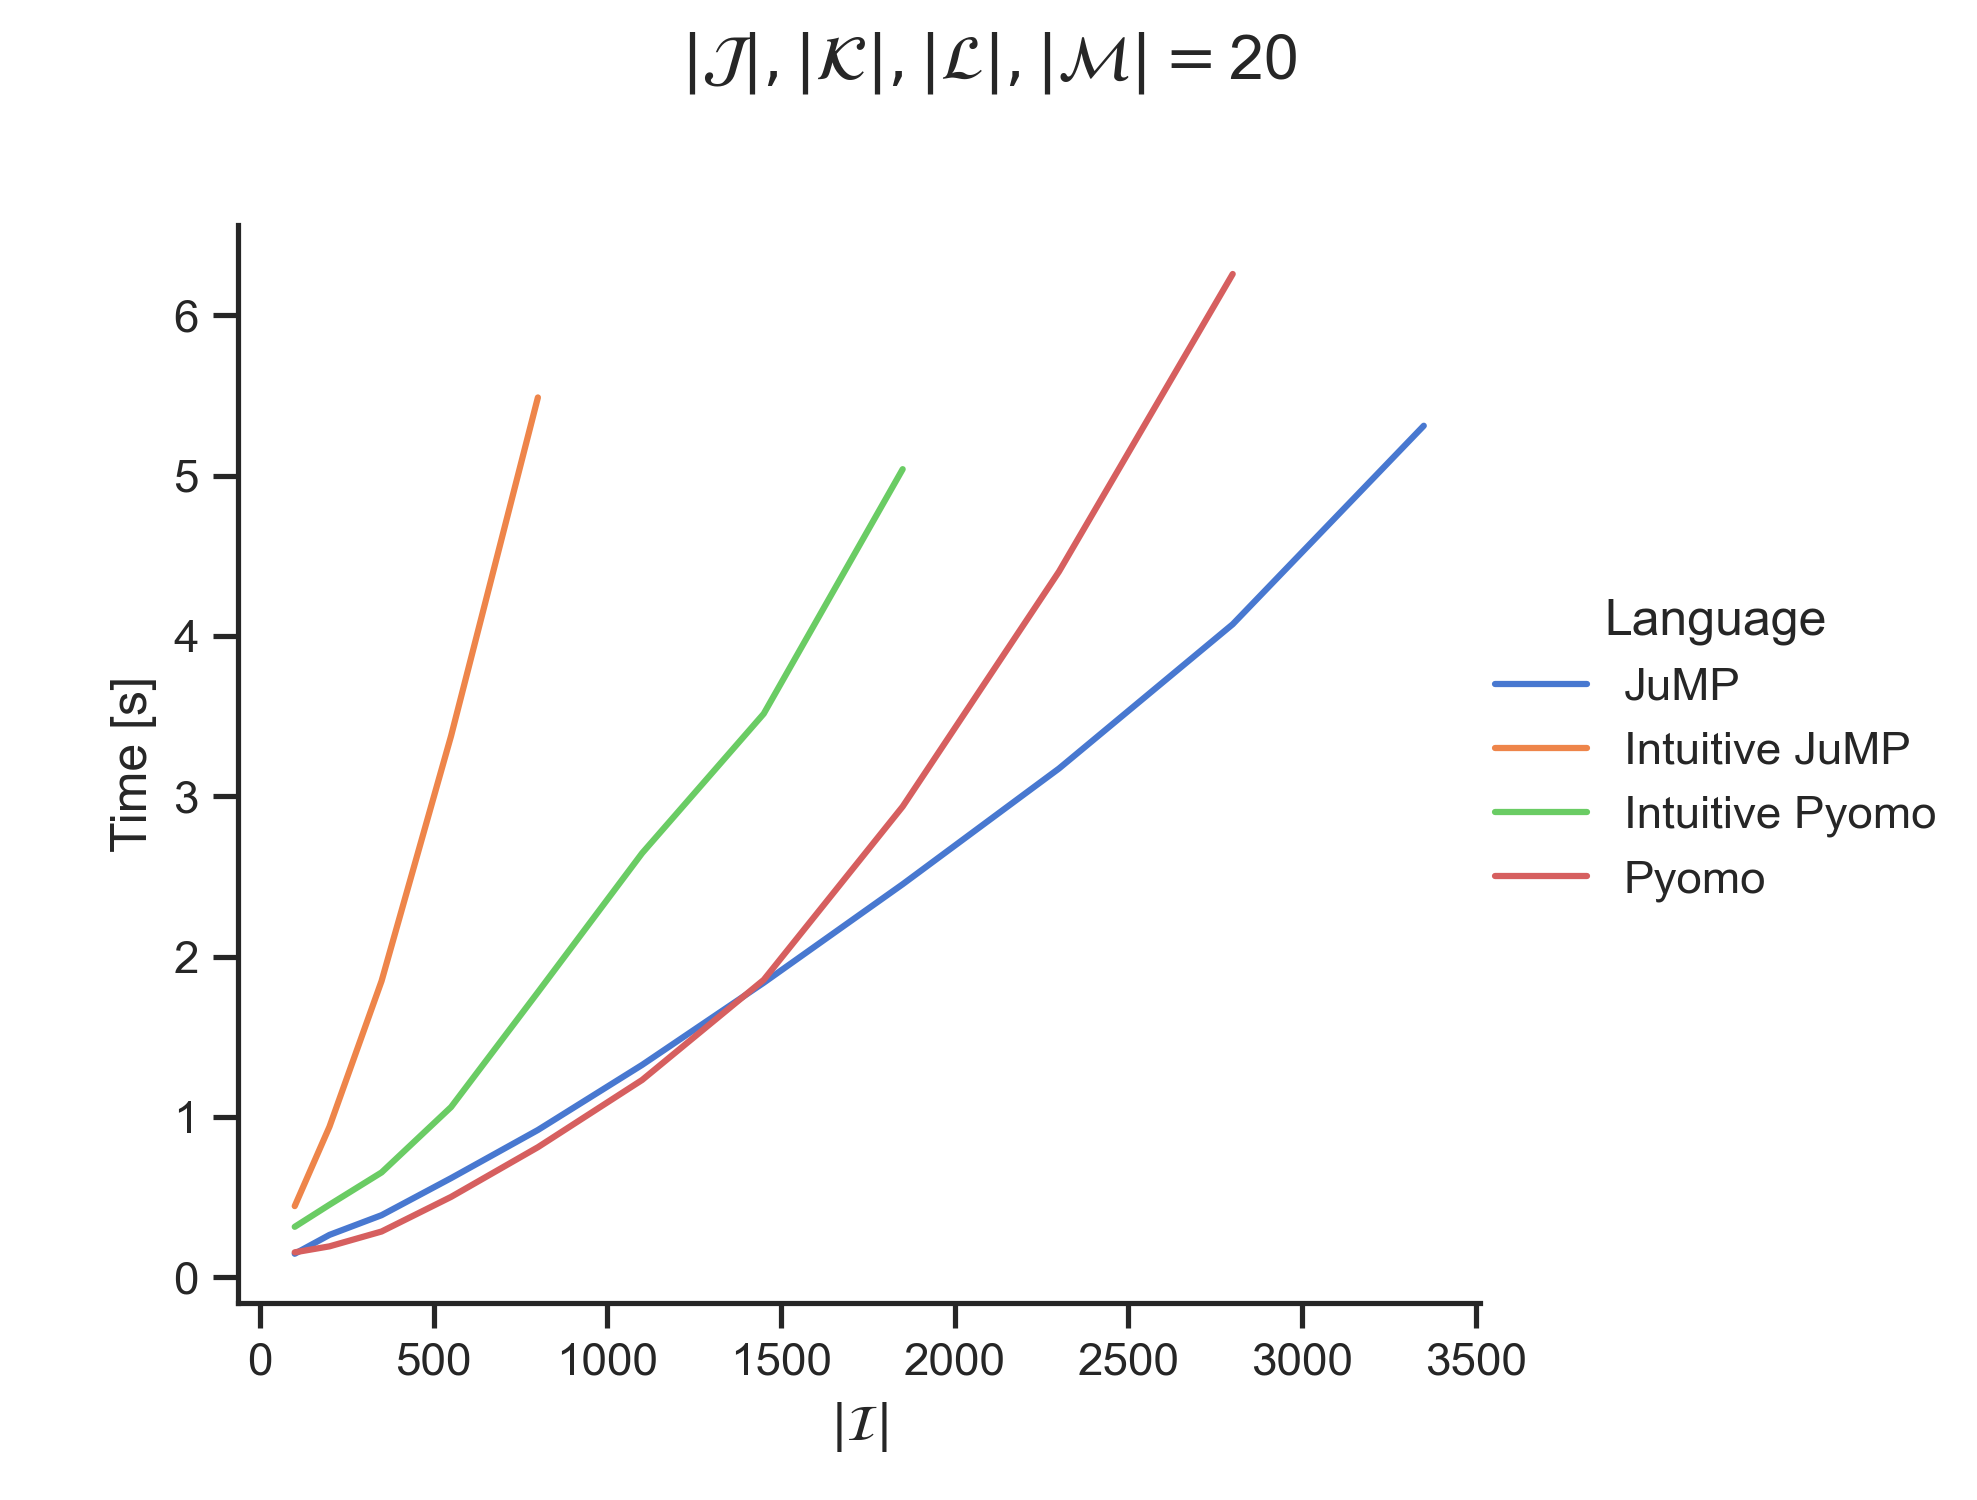
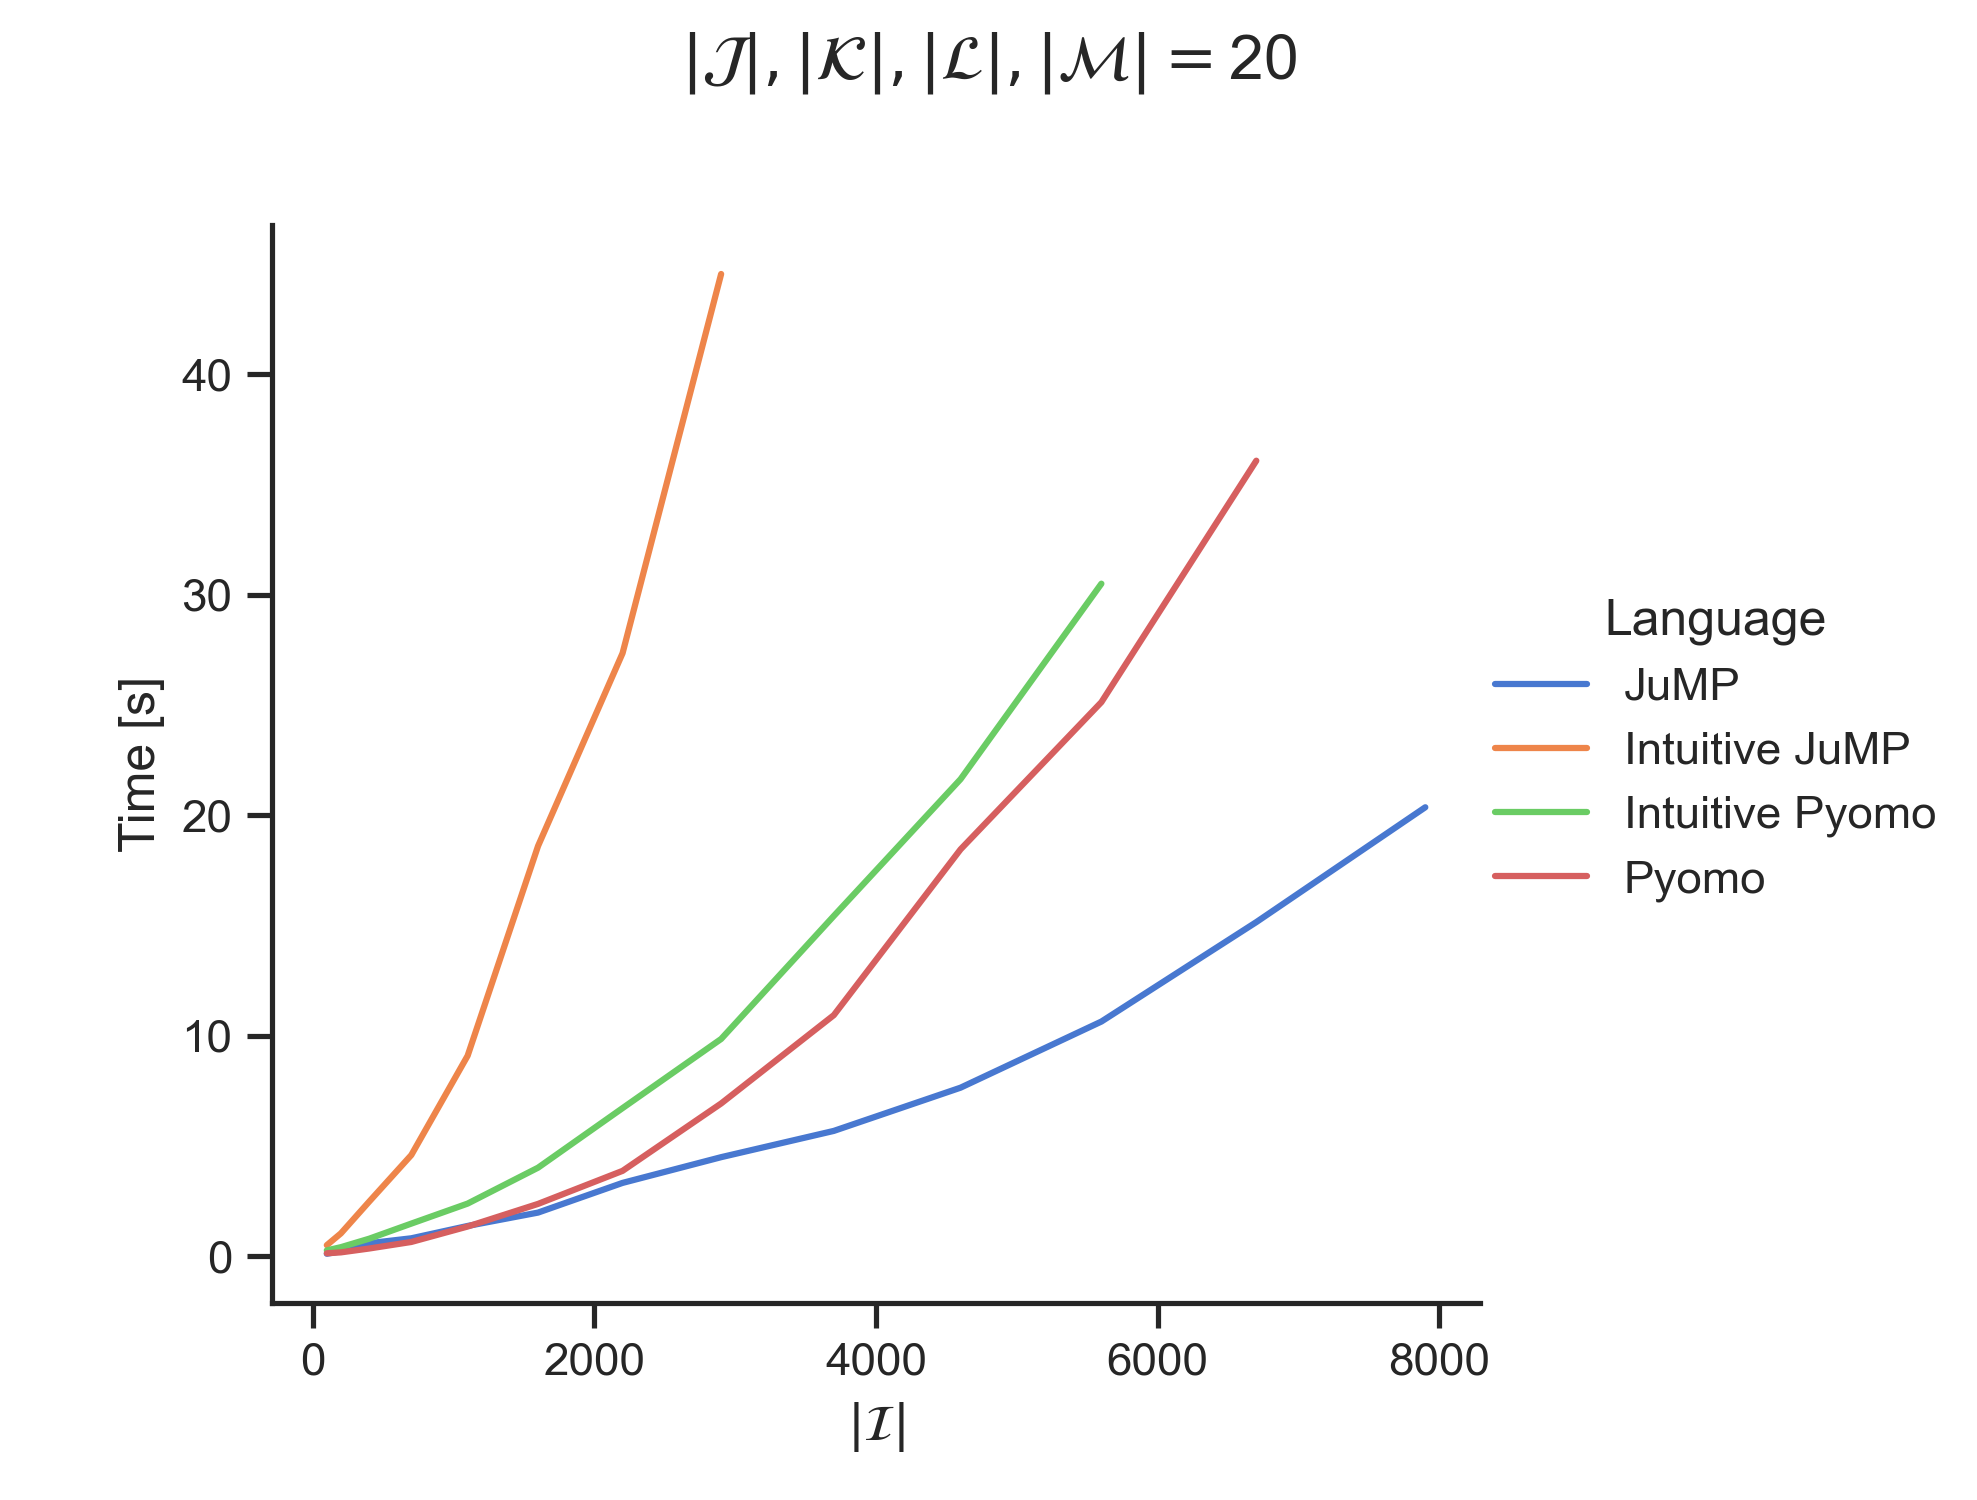
add a README

diff --git a/README.md b/README.md
@@ -1,0 +1,16 @@
+# Performance Experiment - Pyomo vs JuMP
+This repository tries to make a fair comparision between the performance of Pyomo and JuMP. Performance is measures in model generation time and model generation plus solve time. 
+
+## Example IJKLM
+### Model
+$$min \ z$$
+
+$$\sum_{(j,k):(i,j,k) \in \mathcal{IJK}} \ \sum_{l:(j,k,l) \in \mathcal{JKL}} \ \sum_{m:(k,l,m) \in \mathcal{KLM}} x_{i,j,k,l,m} \ge 0 \hspace{1cm} \forall \ i \in \mathcal{I}$$
+
+$$x_{i,j,k,l,m} \ge 0 \hspace{1cm} \forall \ (i,j,k) \in \mathcal{IJK}, l:(j,k,l) \in \mathcal{JKL}, m:(k,l,m) \in \mathcal{KLM} $$
+
+### Model Generation Performance
+![Alt text](plots/IJKLM/model_performance.png)
+
+### Model Generation + Solve Performance
+![Alt text](plots/IJKLM/solve_performance.png)
